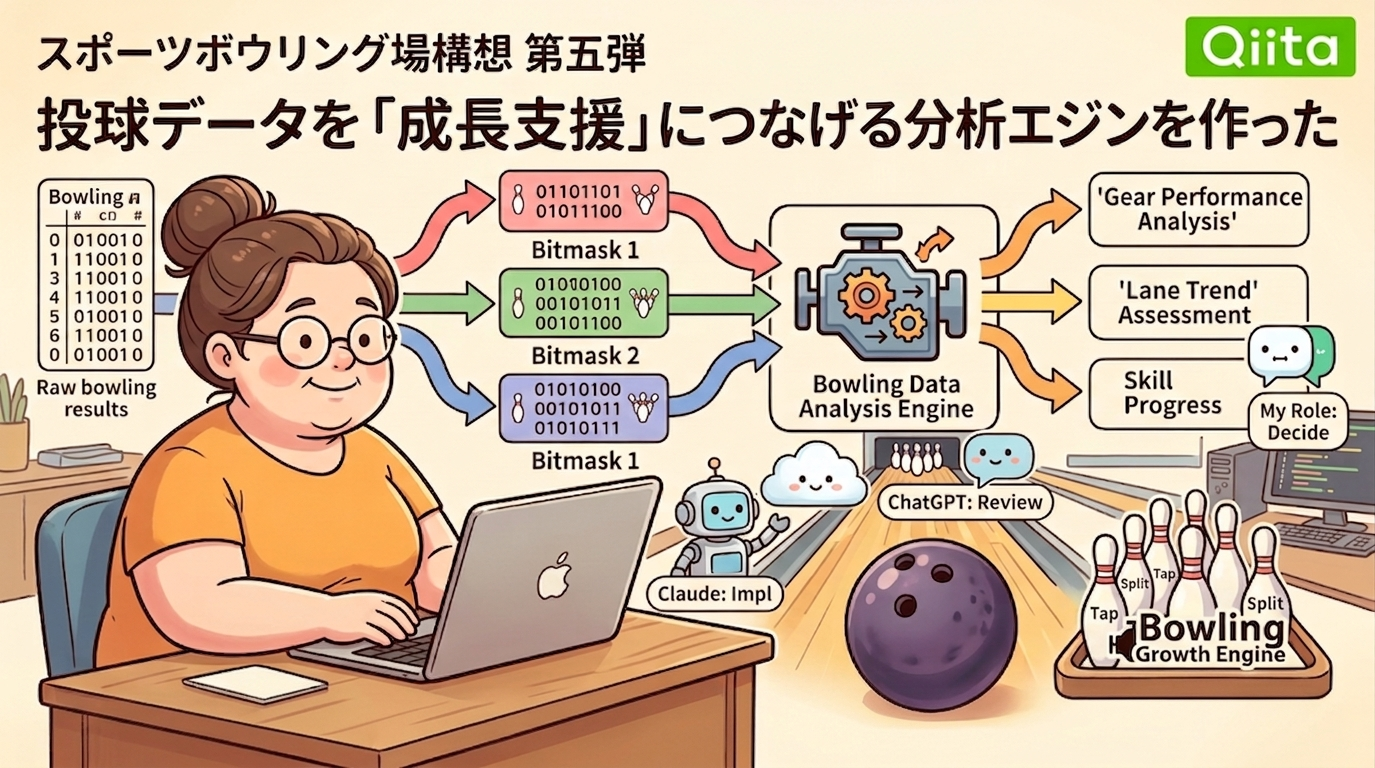
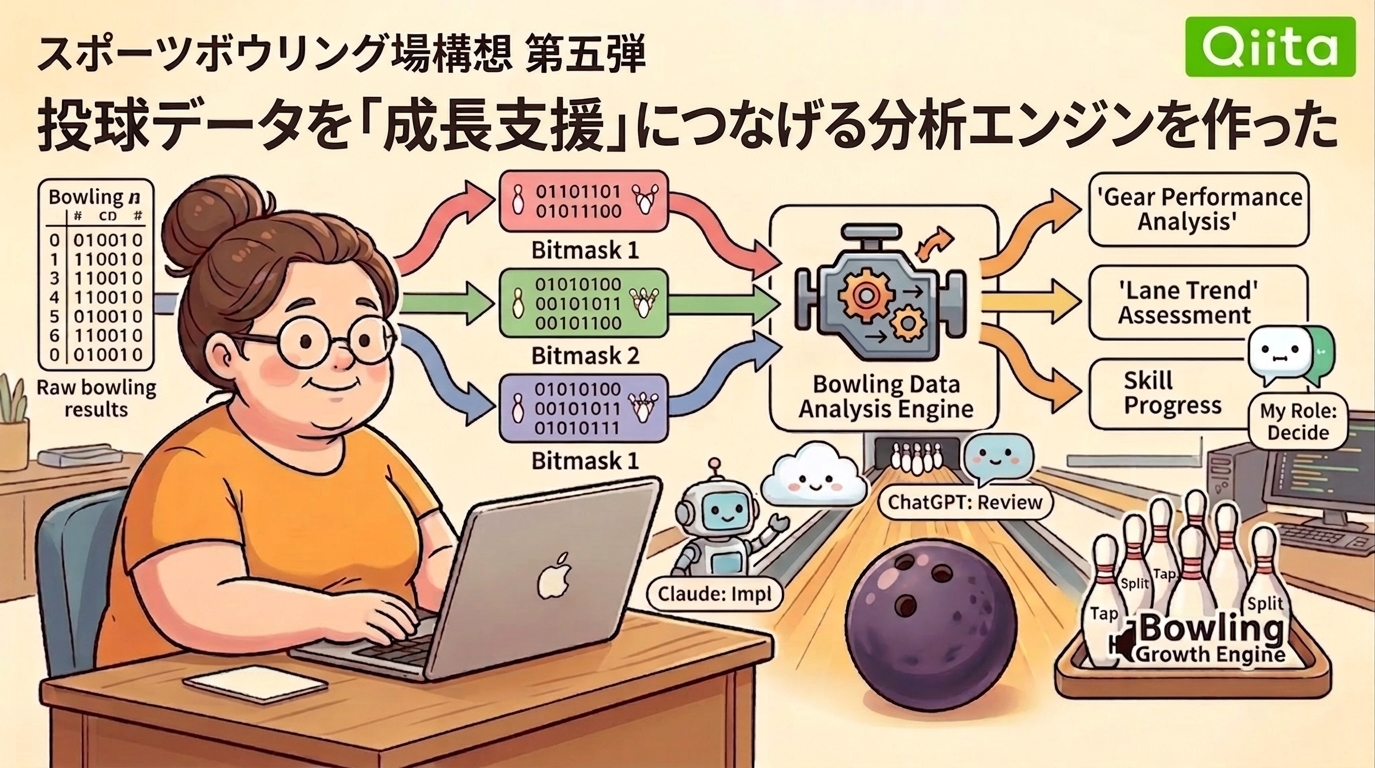
最終原稿

diff --git a/articles/third-bowling-extension.md b/articles/third-bowling-extension.md
@@ -3,8 +3,10 @@ title: "第三弾拡張機能――店舗運営と会員成長をつなぐ拡張
 emoji: "🎳"
 type: "tech"
 topics: ["python", "fastapi", "ai", "bowling", "個人開発"]
-published: false
+published: true
 ---
+
+![](/images/third-bowling-extension.jpg)
 
 ## はじめに
 
@@ -256,3 +258,15 @@ AIに実装を任せる場合でも、プロジェクト全体を把握し、作
 **前に進んだからこそ見えるようになった「つなぎ目」を埋める作業だった。**
 
 第三弾拡張機能は、機能を追加した記録であると同時に、ここまで作ってきた「スポーツボウリング場構想」が、少しずつ一つのシステムとしてつながっていく過程の記録でもある。
+
+なお、ここで「今後の候補」として残した店舗側のメンテナンス管理は、その後、実際に形にした。その記録は、次の記事で。
+
+スポーツボウリング場構想・第三弾開発記録は、まだ続きます。🎳
+
+---
+
+**🏠 ホームページ(ポートフォリオ・開発記録・ご相談窓口)**
+[https://junko-takahashi-cloud.github.io/personal-site/?utm_source=zenn&utm_medium=article&utm_campaign=daisan-kakuchou](https://junko-takahashi-cloud.github.io/personal-site/?utm_source=zenn&utm_medium=article&utm_campaign=daisan-kakuchou)
+
+**🐍 ココナラ(Python業務自動化シリーズ)**
+[https://coconala.com/users/6008491](https://coconala.com/users/6008491)
